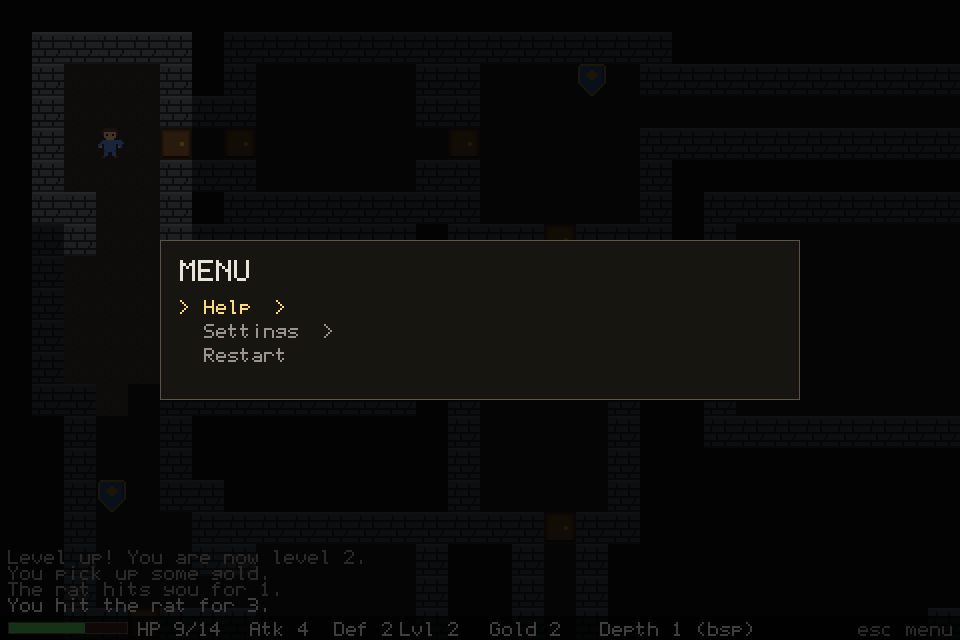
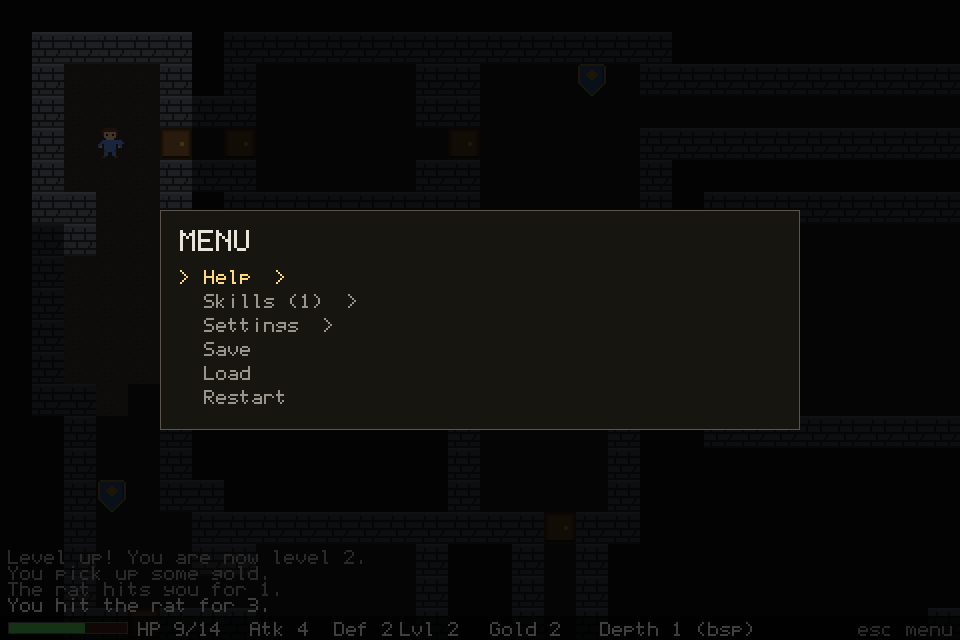
Resume from title and hint skill points

Changed region(s): [[0.1875, 0.3438, 0.3125, 0.625]]

diff --git a/src/platform/main.ts b/src/platform/main.ts
@@ -2,7 +2,7 @@ import { Tileset, drawScene } from "./render.ts";
 import { Game } from "../core/game.ts";
 import { GameAudio } from "./audio.ts";
 import { cycleScalingMode, loadSettings, saveSettings } from "./settings.ts";
-import { clearRun, loadRun, saveRun } from "./save.ts";
+import { clearRun, hasSavedRun, loadRun, saveRun } from "./save.ts";
 import { handleKeydown } from "./input.ts";
 import { contextualHints, drawContextHints, drawHUD } from "../ui/hud.ts";
 import { drawGameOver, drawMenu, drawTitle } from "../ui/screens.ts";
@@ -45,9 +45,10 @@ game.events = {
 if (loadRun(localStorage, game)) {
   if (game.gameOver) {
     clearRun(localStorage);
-    game.screen = "title";
-    game.dirty = true;
+    game.reset();
   }
+  game.screen = "title";
+  game.dirty = true;
 }
 
 function fitCanvas(): void {
@@ -85,6 +86,28 @@ function resetGame(): void {
   audio.unlock();
   if (settings.soundEnabled) audio.startMusic();
   game.dirty = true;
+}
+
+function resumeGame(): void {
+  if (!loadRun(localStorage, game) || game.gameOver) {
+    resetGame();
+    game.screen = "game";
+    return;
+  }
+  game.screen = "game";
+  audio.setEnabled(settings.soundEnabled);
+  audio.unlock();
+  if (settings.soundEnabled) audio.startMusic();
+  game.dirty = true;
+}
+
+function startGame(): void {
+  if (hasSavedRun(localStorage)) {
+    resumeGame();
+  } else {
+    resetGame();
+    game.screen = "game";
+  }
 }
 
 const menu = new MenuNav(() => menuTree());
@@ -162,7 +185,7 @@ function menuTree(): MenuEntry[] {
 
 window.addEventListener("resize", fitCanvas);
 window.addEventListener("keydown", (e) => {
-  handleKeydown(e, { game, menu, audio, resetGame });
+  handleKeydown(e, { game, menu, audio, startGame });
   if (game.screen === "game" && !game.gameOver) {
     saveRun(localStorage, game);
   } else if (game.gameOver) {
@@ -181,7 +204,7 @@ async function main(): Promise<void> {
 
   function draw(): void {
     if (game.screen === "title") {
-      drawTitle(bctx, tiles);
+      drawTitle(bctx, tiles, hasSavedRun(localStorage));
     } else {
       const cam = game.camera();
       drawScene(bctx, tiles, game.buildScene());
@@ -209,6 +232,7 @@ async function main(): Promise<void> {
             torches: game.inventory.torches,
             hp: game.player.hp,
             maxHp: game.player.maxHp,
+            skillPoints: game.player.skillPoints,
           }),
         );
       }

diff --git a/tests/ui/hud.test.ts b/tests/ui/hud.test.ts
@@ -12,6 +12,7 @@ describe("contextual hints", () => {
         torches: 0,
         hp: 10,
         maxHp: 10,
+        skillPoints: 0,
       }),
     ).toEqual(["g: pick up"]);
   });
@@ -26,6 +27,7 @@ describe("contextual hints", () => {
         torches: 0,
         hp: 10,
         maxHp: 10,
+        skillPoints: 0,
       }),
     ).toEqual([".: descend"]);
 
@@ -38,6 +40,7 @@ describe("contextual hints", () => {
         torches: 0,
         hp: 10,
         maxHp: 10,
+        skillPoints: 0,
       }),
     ).toEqual([",: ascend"]);
   });
@@ -52,6 +55,7 @@ describe("contextual hints", () => {
         torches: 0,
         hp: 7,
         maxHp: 14,
+        skillPoints: 0,
       }),
     ).toEqual([]);
 
@@ -64,6 +68,7 @@ describe("contextual hints", () => {
         torches: 0,
         hp: 6,
         maxHp: 14,
+        skillPoints: 0,
       }),
     ).toEqual(["u: drink"]);
   });
@@ -78,7 +83,23 @@ describe("contextual hints", () => {
         torches: 1,
         hp: 10,
         maxHp: 10,
+        skillPoints: 0,
       }),
     ).toEqual(["t: torch"]);
+  });
+
+  it("shows skills hint when skill points are available", () => {
+    expect(
+      contextualHints({
+        hasPickableItem: false,
+        cell: "floor",
+        depth: 1,
+        potions: 0,
+        torches: 0,
+        hp: 10,
+        maxHp: 10,
+        skillPoints: 2,
+      }),
+    ).toEqual(["esc: skills (2)"]);
   });
 });

diff --git a/src/ui/screens.ts b/src/ui/screens.ts
@@ -14,7 +14,7 @@ export interface GameOverStats {
   kills: number;
 }
 
-export function drawTitle(bctx: CanvasRenderingContext2D, tiles: Tileset): void {
+export function drawTitle(bctx: CanvasRenderingContext2D, tiles: Tileset, hasSave: boolean): void {
   bctx.fillStyle = "#111";
   bctx.fillRect(0, 0, LOGICAL_W, LOGICAL_H);
 
@@ -27,7 +27,14 @@ export function drawTitle(bctx: CanvasRenderingContext2D, tiles: Tileset): void 
     "#9a958c",
     2,
   );
-  drawPixelTextCenter(bctx, "PRESS ENTER TO START", LOGICAL_W / 2, 320, "#ffd97a", 3);
+  drawPixelTextCenter(
+    bctx,
+    hasSave ? "PRESS ENTER TO CONTINUE" : "PRESS ENTER TO START",
+    LOGICAL_W / 2,
+    320,
+    "#ffd97a",
+    3,
+  );
 
   const icons = [T.Player, T.Rat, T.Goblin, T.Skeleton, T.Potion, T.Sword, T.Shield, T.Gold];
   const startTile = Math.floor((VIEW_COLS - icons.length) / 2);

diff --git a/tools/make-screenshots.ts b/tools/make-screenshots.ts
@@ -161,14 +161,21 @@ function drawHUD(
 function drawMenu(data: Buffer): void {
   fillRect(data, 0, 0, LOGICAL_W, LOGICAL_H, C(0, 0, 0, 184));
   const w = 640;
-  const h = 160;
+  const h = 220;
   const x = Math.round((LOGICAL_W - w) / 2);
   const y = Math.round((LOGICAL_H - h) / 2);
   fillRect(data, x, y, w, h, C(23, 21, 15, 255));
   strokeRect(data, x, y, w, h, C(90, 84, 74, 255));
 
   drawText(data, "MENU", x + 20, y + 20, C(232, 228, 218, 255), 3);
-  const entries = ["> Help  >", "  Settings  >", "  Restart"];
+  const entries = [
+    "> Help  >",
+    "  Skills (1)  >",
+    "  Settings  >",
+    "  Save",
+    "  Load",
+    "  Restart",
+  ];
   entries.forEach((label, i) => {
     const color = i === 0 ? C(255, 217, 122, 255) : C(154, 149, 140, 255);
     drawText(data, label, x + 20, y + 60 + i * 24, color, 2);

diff --git a/src/platform/input.ts b/src/platform/input.ts
@@ -17,7 +17,7 @@ export interface InputContext {
   game: Game;
   menu: MenuNav;
   audio: GameAudio;
-  resetGame(): void;
+  startGame(): void;
 }
 
 export function handleKeydown(e: KeyboardEvent, ctx: InputContext): void {
@@ -28,8 +28,7 @@ export function handleKeydown(e: KeyboardEvent, ctx: InputContext): void {
       e.preventDefault();
       audio.unlock();
       audio.sfx("select");
-      ctx.resetGame();
-      game.screen = "game";
+      ctx.startGame();
     }
     return;
   }

diff --git a/src/ui/hud.ts b/src/ui/hud.ts
@@ -24,6 +24,7 @@ export interface ContextualHintInput {
   torches: number;
   hp: number;
   maxHp: number;
+  skillPoints: number;
 }
 
 export function contextualHints(input: ContextualHintInput): string[] {
@@ -43,6 +44,9 @@ export function contextualHints(input: ContextualHintInput): string[] {
   }
   if (input.torches > 0) {
     hints.push("t: torch");
+  }
+  if (input.skillPoints > 0) {
+    hints.push(`esc: skills (${input.skillPoints})`);
   }
 
   return hints;
